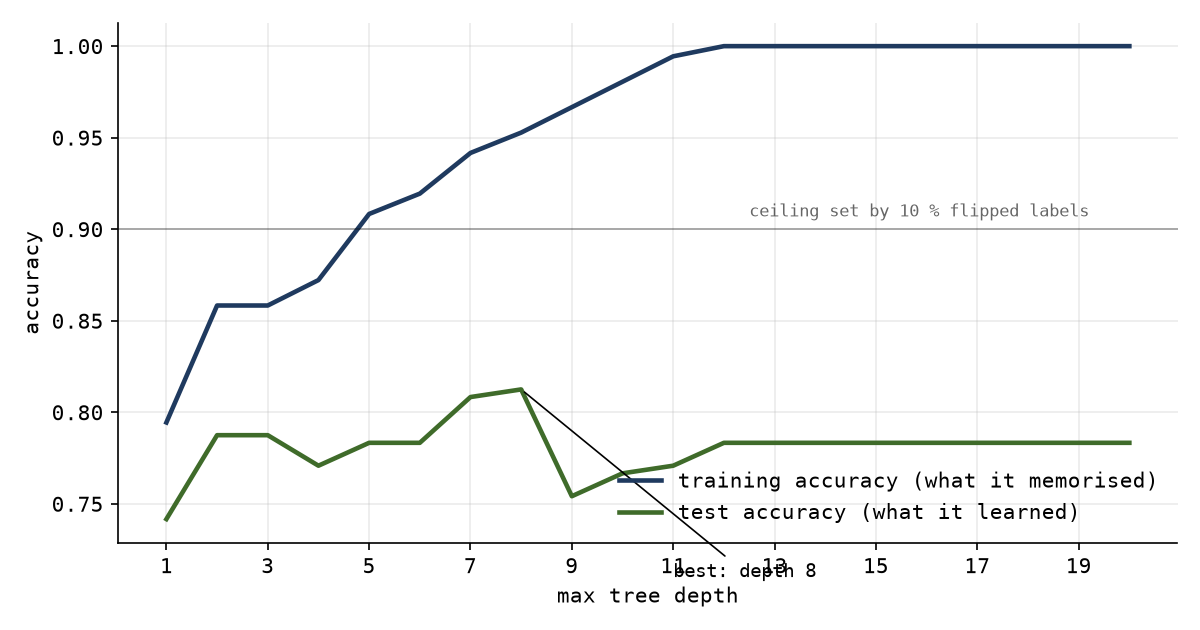
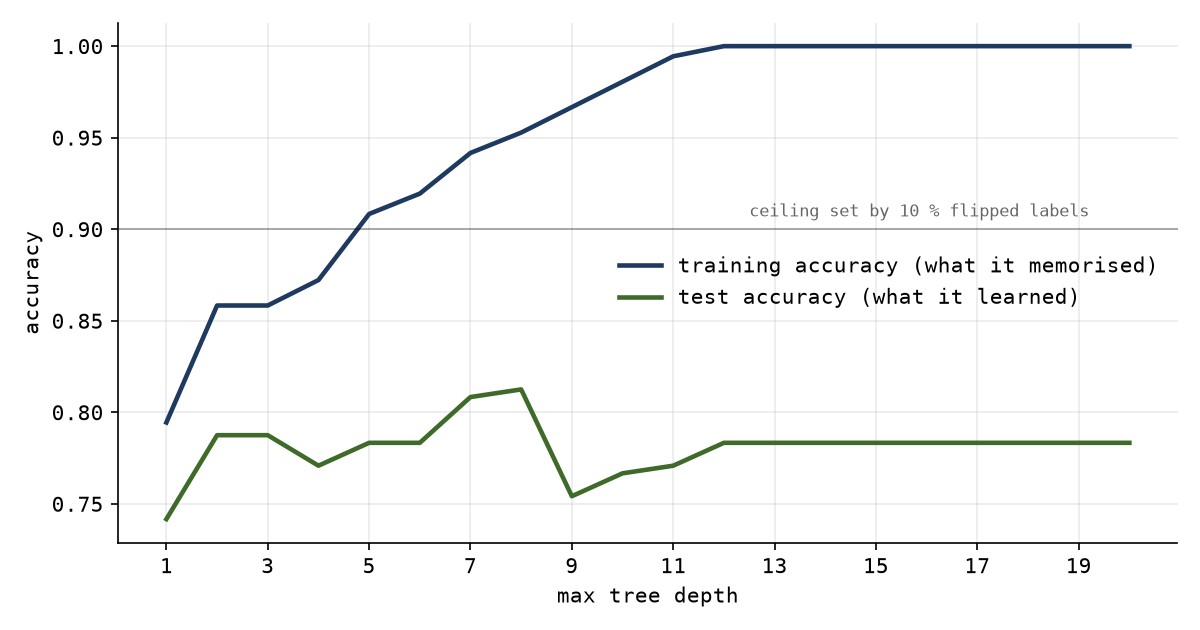
Tidy learning-curve figure

diff --git a/happytrees/run.py b/happytrees/run.py
@@ -65,13 +65,10 @@ def main() -> None:
     ax.plot(depths, test_acc, color="#3f6b2a", lw=2.2, label="test accuracy (what it learned)")
     ax.axhline(0.90, color="k", lw=0.8, alpha=0.35)
     ax.text(12.5, 0.907, "ceiling set by 10 % flipped labels", fontsize=8, alpha=0.6)
-    best = int(np.argmax(test_acc))
-    ax.annotate(f"best: depth {best + 1}", (best + 1, test_acc[best]), (best + 4, 0.71),
-                arrowprops=dict(arrowstyle="-", lw=0.8), fontsize=9)
     ax.set_xlabel("max tree depth")
     ax.set_ylabel("accuracy")
     ax.set_xticks(list(depths)[::2])
-    ax.legend(frameon=False, loc="lower right")
+    ax.legend(frameon=False, loc="center right")
     ax.grid(alpha=0.25)
     for s in ("top", "right"):
         ax.spines[s].set_visible(False)
